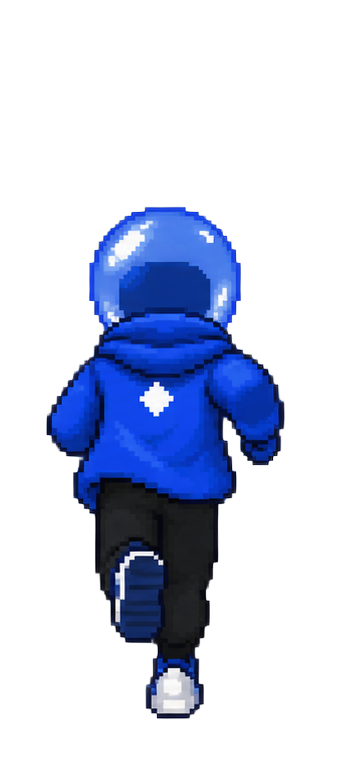
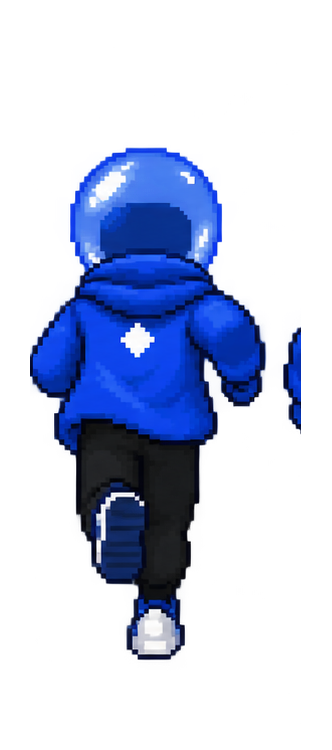
feat: steady run cycle arcade music and score levels

Changed region(s): [[0.0904, 0.184, 0.9036, 0.9507]]

diff --git a/public/index.html b/public/index.html
@@ -11,15 +11,15 @@
 </head>
 <body><div class="shell">
 <header class="top"><div class="mark">DLICOM<i>◆</i>RUNNER</div><div class="rule">ENDLESS SIGNAL SURVIVAL</div></header>
-<main><section class="intro"><h1>KEEP THE<br><span>SIGNAL</span><br>ALIVE.</h1><div class="brief"><b>HOW TO RUN</b><br>Swipe or press left/right to switch lanes. Press space to jump over red barriers. Catch blue signals. Avoid red noise. Every 3 signals triggers <b>DILI-SUPER MODE</b>: double score and immunity.</div></section>
+<main><section class="intro"><h1>MAKE A<br><span>DILI</span><br>RUN AWAY.</h1><div class="brief"><b>HOW TO RUN</b><br>Swipe or press left/right to switch lanes. Press space to jump over red barriers. Catch blue signals. Avoid red noise. Every 3 signals triggers <b>DILI-SUPER MODE</b>: double score and immunity.</div></section>
 <section class="arena" id="arena" aria-label="Dlicom Runner game"><div class="hud"><div class="scorebox"><div>SCORE<b id="score">00000</b></div><div>BEST<b id="best">00000</b></div></div><div class="surge" id="surge">DILI-SUPER MODE ACTIVATED ×2</div></div><div class="overlay" id="overlay"><div><h2 id="stateTitle">READY?</h2><p id="stateCopy">Swipe, tap a side, or use arrow keys to switch lanes.</p><button class="button" id="play">START RUN</button></div></div></section>
 <section class="below"><div class="panel"><span>BEST RUN</span><strong id="bestPanel">0</strong></div><div class="panel"><span>SHIELD BOOST</span><strong id="shieldPanel">0 / 3</strong><div class="ref" id="refText"></div></div><div class="panel"><span>AFTER RUN</span><div class="actions"><button class="button secondary" id="share">POST SCORE ON X</button><button class="button secondary" id="banner">SAVE BANNER</button></div></div></section>
 </main><footer class="foot">DLICOM RUNNER · PLAY FIRST</footer></div>
 <script type="module">
 import * as THREE from './vendor/three.module.min.js';
-import {newGame,advance} from './game-core.js';
+import {newGame,advance,difficultyLevel} from './game-core.js';
 const el=id=>document.querySelector('#'+id), arena=el('arena'), scoreEl=el('score'),bestEl=el('best'),bestPanel=el('bestPanel'),surgeEl=el('surge'),overlay=el('overlay'),play=el('play');
-let renderer,scene,camera,player,clock,game,entities=[],roadMarkers=[],bursts=[],runnerTextures=[],jumpTextures=[],audioCtx,running=false,lane=1,high=Number(localStorage.dlicomRunnerHigh||0),lastSpawn=0,pointerX=null,jumpRequested=false,flashTimer=0,damageTimer=0;
+let renderer,scene,camera,player,clock,game,entities=[],roadMarkers=[],bursts=[],runnerTextures=[],jumpTextures=[],audioCtx,musicTimer=null,musicStep=0,runClock=0,prevLevel=1,running=false,lane=1,high=Number(localStorage.dlicomRunnerHigh||0),lastSpawn=0,pointerX=null,jumpRequested=false,flashTimer=0,damageTimer=0;
 const lanes=[-2.7,0,2.7], shields=Number(localStorage.dlicomRunnerShield||0),refCode=localStorage.dlicomRunnerCode||(localStorage.dlicomRunnerCode=Math.random().toString(36).slice(2,8).toUpperCase());
 const incoming=new URLSearchParams(location.search).get('ref');if(incoming&&incoming!==localStorage.dlicomRunnerRef){localStorage.dlicomRunnerRef=incoming;localStorage.dlicomRunnerShield=Math.min(3,shields+1)}
 el('shieldPanel').textContent=`${Number(localStorage.dlicomRunnerShield||0)} / 3`;el('refText').textContent=`INVITE LINK: ${location.origin+location.pathname}?ref=${refCode}`;
@@ -30,13 +30,17 @@ function setup(){scene=new THREE.Scene();scene.background=new THREE.Color(0x0507
 function burst(position,type){const color=type==='signal'?0x6fb0ff:0xff416c;const material=new THREE.MeshBasicMaterial({color,transparent:true,opacity:1});const group=new THREE.Group();group.position.copy(position);for(let i=0;i<34;i++){const p=new THREE.Mesh(new THREE.OctahedronGeometry(.09+Math.random()*.08),material.clone());const a=Math.random()*Math.PI*2;p.userData.v=new THREE.Vector3(Math.cos(a)*(2.2+Math.random()*2),.5+Math.random()*3.5,(Math.random()-.5)*3.2);group.add(p)}scene.add(group);bursts.push({group,life:.78})}
 function beep(freq,stop,dur,type,gain=.14){const t=audioCtx.currentTime,osc=audioCtx.createOscillator(),env=audioCtx.createGain();osc.type=type;osc.frequency.setValueAtTime(freq,t);if(stop)osc.frequency.exponentialRampToValueAtTime(stop,t+dur);env.gain.setValueAtTime(gain,t);env.gain.exponentialRampToValueAtTime(.0001,t+dur);osc.connect(env).connect(audioCtx.destination);osc.start(t);osc.stop(t+dur)}
 function sfx(kind){if(!audioCtx)return;if(kind==='collect'){beep(760,1280,.16,'sine');setTimeout(()=>beep(1020,1560,.14,'sine'),70)}else if(kind==='hit'){beep(300,70,.3,'sawtooth',.2)}else if(kind==='jump'){beep(340,760,.2,'triangle')}else if(kind==='surge'){beep(520,2080,.5,'square',.1)}}
+const MUSIC_VOLUME=.30;
+function musicBeat(){if(!running)return;const bass=[110,110,165,110,146,110,196,146][musicStep%8],lead=[440,523,659,523,587,659,784,659][musicStep%8];beep(bass,0,.12,'square',.09*MUSIC_VOLUME);if(musicStep%2===0)beep(lead,0,.08,'triangle',.05*MUSIC_VOLUME);musicStep++}
+function startMusic(){clearInterval(musicTimer);musicStep=0;musicBeat();musicTimer=setInterval(musicBeat,150)}
+function stopMusic(){clearInterval(musicTimer);musicTimer=null}
 function removeEntity(entity,type){scene.remove(entity);entity.userData.dead=true;burst(entity.position,type);if(type==='signal'){sfx('collect');flashTimer=.32;arena.classList.remove('collect');void arena.offsetWidth;arena.classList.add('collect')}else if(type==='jump'){sfx('jump')}else{sfx('hit');damageTimer=.42;arena.classList.remove('damage');void arena.offsetWidth;arena.classList.add('damage')}}
 function resize(){const r=arena.getBoundingClientRect();camera.aspect=r.width/r.height;camera.updateProjectionMatrix();renderer.setSize(r.width,r.height,false)}
-function spawn(){const roll=Math.random(),signal=roll<.58,jumpable=!signal&&roll<.82,g=new THREE.Group();if(signal){const m=new THREE.MeshStandardMaterial({color:0x55a0ff,emissive:0x126cff,emissiveIntensity:2});g.add(new THREE.Mesh(new THREE.OctahedronGeometry(.34),m));g.userData.type='signal'}else{const m=new THREE.MeshStandardMaterial({color:0xff416c,emissive:0x6b1027,emissiveIntensity:1.1});if(jumpable){const bar=new THREE.Mesh(new THREE.BoxGeometry(2.5,.5,.3),m);bar.position.y=.5;g.add(bar);const foot=new THREE.Mesh(new THREE.BoxGeometry(2.5,.14,.34),new THREE.MeshStandardMaterial({color:0x2d7cff,emissive:0x126cff,emissiveIntensity:1.6}));foot.position.y=.28;g.add(foot);g.userData.type='jump'}else{const a=new THREE.Mesh(new THREE.BoxGeometry(1.6,1.6,.25),m);a.rotation.z=Math.PI/4;g.add(a);g.userData.type='noise'}}g.position.set(lanes[Math.floor(Math.random()*3)],signal?1.3:0,-48);g.userData.hit=false;scene.add(g);entities.push(g)}
+function spawn(){const level=difficultyLevel(game.score),roll=Math.random(),signal=roll<.58-level*.05,jumpable=!signal&&roll<.82-level*.02,g=new THREE.Group();if(signal){const m=new THREE.MeshStandardMaterial({color:0x55a0ff,emissive:0x126cff,emissiveIntensity:2});g.add(new THREE.Mesh(new THREE.OctahedronGeometry(.34),m));g.userData.type='signal'}else{const m=new THREE.MeshStandardMaterial({color:0xff416c,emissive:0x6b1027,emissiveIntensity:1.1});if(jumpable){const bar=new THREE.Mesh(new THREE.BoxGeometry(2.5,.5,.3),m);bar.position.y=.5;g.add(bar);const foot=new THREE.Mesh(new THREE.BoxGeometry(2.5,.14,.34),new THREE.MeshStandardMaterial({color:0x2d7cff,emissive:0x126cff,emissiveIntensity:1.6}));foot.position.y=.28;g.add(foot);g.userData.type='jump'}else if(level>=3&&roll>.97){const wall=new THREE.Mesh(new THREE.BoxGeometry(7.5,2.6,.4),m);wall.position.y=1.3;g.add(wall);const gapHint=new THREE.Mesh(new THREE.OctahedronGeometry(.3),new THREE.MeshStandardMaterial({color:0x2d7cff,emissive:0x126cff,emissiveIntensity:2}));gapHint.position.set(0,.55,.3);g.add(gapHint);g.userData.type='noise'}else{const a=new THREE.Mesh(new THREE.BoxGeometry(1.6,1.6,.25),m);a.rotation.z=Math.PI/4;g.add(a);g.userData.type='noise'}}g.position.set(lanes[Math.floor(Math.random()*3)],signal?1.3:0,-48);g.userData.hit=false;scene.add(g);entities.push(g)}
 function move(dir){if(!running)return;game=advance(game,{lane:dir,dt:0});lane=game.lane}
-function reset(){audioCtx??=new AudioContext();audioCtx.resume();game=newGame(Date.now(),Number(localStorage.dlicomRunnerShield||0));lane=game.lane;entities.forEach(x=>scene.remove(x));entities=[];lastSpawn=0;clock.start();running=true;overlay.hidden=true;requestAnimationFrame(loop)}
-function finish(){running=false;high=Math.max(high,game.score);localStorage.dlicomRunnerHigh=high;overlay.hidden=false;el('stateTitle').textContent='LOST SIGNAL';el('stateCopy').textContent=`RUN SCORE ${game.score} · BEST COMBO ${game.bestCombo}`;play.textContent='RUN AGAIN';bestEl.textContent=String(high).padStart(5,'0');bestPanel.textContent=high}
-function loop(){if(!running)return;const dt=Math.min(.04,clock.getDelta()),speed=13+Math.min(15,game.distance*.55);lastSpawn+=dt;if(lastSpawn>.7){spawn();lastSpawn=0}let collect=false,hit=false;for(const e of entities){e.position.z+=speed*dt;e.rotation.y+=dt*2;if(!e.userData.hit&&e.position.z>0.7&&e.position.z<2.1&&Math.abs(e.position.x-lanes[lane])<.7){if(e.userData.type==='jump'&&game.jump>0){continue}e.userData.hit=true;if(e.userData.type==='signal')collect=true;else hit=true;removeEntity(e,e.userData.type)}if(e.position.z>11){scene.remove(e);e.userData.dead=true}}entities=entities.filter(e=>!e.userData.dead);for(const b of bursts){b.life-=dt;for(const p of b.group.children){p.position.addScaledVector(p.userData.v,dt);p.userData.v.y-=dt*4;p.material.opacity=Math.max(0,b.life*2)}b.group.children.forEach(p=>p.rotation.z+=dt*6);if(b.life<=0)scene.remove(b.group)}bursts=bursts.filter(b=>b.life>0);for(const m of roadMarkers){m.position.z+=speed*dt;if(m.position.z>14)m.position.z-=112}const wasSurging=game.surge>0;game=advance(game,{collect,hit,jump:jumpRequested,dt});jumpRequested=false;if(!wasSurging&&game.surge>0)sfx('surge');player.position.x+=(lanes[lane]-player.position.x)*Math.min(1,dt*13);player.rotation.z=(lanes[lane]-player.position.x)*-.15;const jumpPhase=1-game.jump/.62;player.position.y=game.jump>0?Math.sin(jumpPhase*Math.PI)*1.35:0;player.userData.sprite.material.map=game.jump>0?jumpTextures[Math.min(7,Math.floor(jumpPhase*8))]:runnerTextures[Math.floor(game.distance*8)%8];scene.fog.color.set(game.surge>0?0x071a43:0x05070d);surgeEl.classList.toggle('on',game.surge>0);scoreEl.textContent=String(game.score).padStart(5,'0');bestEl.textContent=String(high).padStart(5,'0');if(flashTimer>0){flashTimer-=dt;if(flashTimer<=0)arena.classList.remove('collect')}if(damageTimer>0){damageTimer-=dt;if(damageTimer<=0)arena.classList.remove('damage')}renderer.render(scene,camera);if(game.over){finish();return}requestAnimationFrame(loop)}
+function reset(){audioCtx??=new AudioContext();audioCtx.resume();game=newGame(Date.now(),Number(localStorage.dlicomRunnerShield||0));lane=game.lane;entities.forEach(x=>scene.remove(x));entities=[];lastSpawn=0;runClock=0;prevLevel=1;clock.start();running=true;overlay.hidden=true;startMusic();requestAnimationFrame(loop)}
+function finish(){running=false;stopMusic();high=Math.max(high,game.score);localStorage.dlicomRunnerHigh=high;overlay.hidden=false;el('stateTitle').textContent='LOST SIGNAL';el('stateCopy').textContent=`RUN SCORE ${game.score} · BEST COMBO ${game.bestCombo}`;play.textContent='RUN AGAIN';bestEl.textContent=String(high).padStart(5,'0');bestPanel.textContent=high}
+function loop(){if(!running)return;const dt=Math.min(.04,clock.getDelta()),speed=13+Math.min(15,game.distance*.55);runClock+=dt;lastSpawn+=dt;if(lastSpawn>.7){spawn();lastSpawn=0}let collect=false,hit=false;for(const e of entities){e.position.z+=speed*dt;e.rotation.y+=dt*2;if(!e.userData.hit&&e.position.z>0.7&&e.position.z<2.1&&Math.abs(e.position.x-lanes[lane])<.7){if(e.userData.type==='jump'&&game.jump>0){continue}e.userData.hit=true;if(e.userData.type==='signal')collect=true;else hit=true;removeEntity(e,e.userData.type)}if(e.position.z>11){scene.remove(e);e.userData.dead=true}}entities=entities.filter(e=>!e.userData.dead);for(const b of bursts){b.life-=dt;for(const p of b.group.children){p.position.addScaledVector(p.userData.v,dt);p.userData.v.y-=dt*4;p.material.opacity=Math.max(0,b.life*2)}b.group.children.forEach(p=>p.rotation.z+=dt*6);if(b.life<=0)scene.remove(b.group)}bursts=bursts.filter(b=>b.life>0);for(const m of roadMarkers){m.position.z+=speed*dt;if(m.position.z>14)m.position.z-=112}game=advance(game,{collect,hit,jump:jumpRequested,dt});jumpRequested=false;const level=difficultyLevel(game.score);if(level>prevLevel){sfx('surge');prevLevel=level}player.position.x+=(lanes[lane]-player.position.x)*Math.min(1,dt*13);player.rotation.z=(lanes[lane]-player.position.x)*-.15;const jumpPhase=1-game.jump/.62;player.position.y=game.jump>0?Math.sin(jumpPhase*Math.PI)*1.35:0;player.userData.sprite.material.map=game.jump>0?jumpTextures[Math.min(7,Math.floor(jumpPhase*8))]:runnerTextures[Math.floor(runClock*10)%8];scene.fog.color.set(game.surge>0?0x071a43:0x05070d);surgeEl.classList.toggle('on',game.surge>0);scoreEl.textContent=String(game.score).padStart(5,'0');bestEl.textContent=String(high).padStart(5,'0');if(flashTimer>0){flashTimer-=dt;if(flashTimer<=0)arena.classList.remove('collect')}if(damageTimer>0){damageTimer-=dt;if(damageTimer<=0)arena.classList.remove('damage')}renderer.render(scene,camera);if(game.over){finish();return}requestAnimationFrame(loop)}
 function post(){const text=`I scored ${high} in DLICOM RUNNER. Keep the signal alive.\n${location.origin+location.pathname}?ref=${refCode}`;open('https://x.com/intent/post?text='+encodeURIComponent(text),'_blank','noopener')}
 function saveBanner(){const b=document.createElement('canvas');b.width=1200;b.height=630;const x=b.getContext('2d');x.fillStyle='#05070d';x.fillRect(0,0,b.width,b.height);x.fillStyle='#126cff';x.fillRect(0,0,20,b.height);x.fillStyle='#fff';x.font='900 70px Arial';x.fillText('DLICOM RUNNER',75,110);x.fillStyle='#126cff';x.font='900 190px Arial';x.fillText(String(high).padStart(5,'0'),70,340);x.fillStyle='#cbd4e7';x.font='32px Arial';x.fillText('KEEP THE SIGNAL ALIVE.',75,410);x.fillStyle='#126cff';x.beginPath();x.arc(1010,310,150,0,Math.PI*2);x.fill();x.fillStyle='#fff';x.font='900 110px Arial';x.fillText('◆',950,350);const a=document.createElement('a');a.download='dlicom-runner-score.png';a.href=b.toDataURL('image/png');a.click()}
 addEventListener('keydown',e=>{if(e.key==='ArrowLeft'||e.key==='a')move(-1);if(e.key==='ArrowRight'||e.key==='d')move(1);if((e.key===' '||e.code==='Space')&&running){e.preventDefault();jumpRequested=true}});arena.addEventListener('pointerdown',e=>{pointerX=e.clientX});arena.addEventListener('pointerup',e=>{if(pointerX===null)return;const dx=e.clientX-pointerX;move(Math.abs(dx)>22?(dx>0?1:-1):(e.clientX>arena.getBoundingClientRect().left+arena.clientWidth/2?1:-1));pointerX=null});play.onclick=reset;el('share').onclick=post;el('banner').onclick=saveBanner;bestEl.textContent=String(high).padStart(5,'0');bestPanel.textContent=high;setup();renderer.render(scene,camera);

diff --git a/test/game-core.test.js b/test/game-core.test.js
@@ -1,6 +1,6 @@
 import test from 'node:test';
 import assert from 'node:assert/strict';
-import { advance, newGame } from '../public/game-core.js';
+import { advance, difficultyLevel, newGame } from '../public/game-core.js';
 
 test('lane input stays inside three runner lanes', () => {
   let state = newGame(7);
@@ -47,4 +47,12 @@ test('jump starts once and expires after its short duration', () => {
   assert.ok(state.jump < .7);
   state = advance(state, { dt: 1 });
   assert.equal(state.jump, 0);
+});
+
+test('difficulty level rises at score milestones', () => {
+  assert.equal(difficultyLevel(0), 1);
+  assert.equal(difficultyLevel(499), 1);
+  assert.equal(difficultyLevel(500), 2);
+  assert.equal(difficultyLevel(1500), 4);
+  assert.equal(difficultyLevel(99999), 6);
 });

diff --git a/public/game-core.js b/public/game-core.js
@@ -13,6 +13,11 @@ export function newGame(seed = 1, shields = 0) {
   };
 }
 
+export function difficultyLevel(score) {
+  // Level 1..6: rises every 500 score. Drives spawn mix and speed pacing.
+  return Math.min(6, 1 + Math.floor(Math.max(0, score) / 500));
+}
+
 export function advance(state, { lane = 0, collect = false, hit = false, jump = false, dt = 0 } = {}) {
   if (state.over) return state;
   const next = { ...state, score: state.score, surge: state.surge, combo: state.combo };
